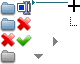
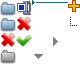
+ Layout changes to tree
git-svn-id: http://agilefant.googlecode.com/svn/trunk@3498 29784df9-99d5-7e28-3e6c-ac1830307ffc

Changed region(s): [[0.85, 0.0, 1.0, 0.1875]]

diff --git a/web/static/css/jstree/agilefant/style.css b/web/static/css/jstree/agilefant/style.css
@@ -119,7 +119,7 @@
 
 /* Markers */
 #jstree-marker.marker {
-  display: block !important;
+  /*display: block !important;*/
   height: 0.2em !important;
   width: 10em !important;
   background: #E17009 !important;
@@ -127,6 +127,7 @@
 }
 
 #jstree-marker.marker_plus {
+  margin-top: -3px;
   width: 12px;
   height: 12px;
   background-position: right top;
